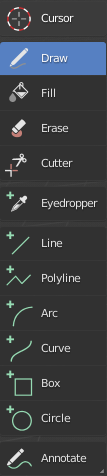
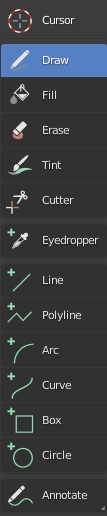
GPencil: Modes section updates

diff --git a/manual/grease_pencil/modes/sculpting/tools.rst b/manual/grease_pencil/modes/sculpting/tools.rst
@@ -8,26 +8,8 @@ For Grease Pencil sculpt modes each brush type is exposed as a tool,
 the brush can be changed in the Tool Settings.
 See :doc:`Brush </grease_pencil/modes/sculpting/tool_settings/brush>` for more information.
 
-Grease Pencil sculpt tools:
-
 .. figure:: /images/grease-pencil_modes_sculpting_tools_brushes.png
    :align: right
-
-   3D View Mode selector: Sculpt Mode.
-
-.. note::
-
-   Some :ref:`Object Mode <object-toolbar-index>` are also present.
-
-:ref:`Select <tool-select-tweak>`
-   Select or moved.
-
-   :ref:`Select Box <tool-select-box>`
-      Select geometry by dragging a box.
-   :ref:`Select Circle <tool-select-circle>`
-      Select geometry by painting on it.
-   :ref:`Select Lasso <tool-select-lasso>`
-      Select geometry by drawing a lasso.
 
 Smooth
    Eliminates irregularities in the area of the drawing
@@ -64,3 +46,13 @@ Pinch/Inflate
 Clone
    Adds copies of the strokes in the clipboard in the center of the brush.
    You have to copy the selected strokes you want into the clipboard with :kbd:`Ctrl-C` before using the tool.
+
+:ref:`Annotate <tool-annotate>`
+   Draw free-hand annotation.
+
+   Annotate Line
+      Draw straight line annotation.
+   Annotate Polygon
+      Draw a polygon annotation.
+   Annotate Eraser
+      Erase previous drawn annotations.

diff --git a/manual/grease_pencil/modes/draw/tools.rst b/manual/grease_pencil/modes/draw/tools.rst
@@ -7,11 +7,8 @@ Drawing Tools
 .. figure:: /images/grease-pencil_modes_draw_tools_toolbar-tools.png
    :align: right
 
-Grease Pencil draw tools:
-
-.. note::
-
-   Some :ref:`Object Mode <object-toolbar-index>` are also present.
+Cursor
+   Change the location of the 3D Cursor.
 
 :ref:`Draw <tool-grease-pencil-draw-draw>`
    Draw free-hand strokes.
@@ -21,6 +18,9 @@ Grease Pencil draw tools:
 
 :ref:`Erase <tool-grease-pencil-draw-erase>`
    Erase strokes.
+
+:ref:`Tint <tool-grease-pencil-draw-tint>`
+   Colorize stroke points.
 
 :ref:`Cutter <tool-grease-pencil-draw-cutter>`
    Cut strokes in between others.
@@ -47,4 +47,11 @@ Grease Pencil draw tools:
    Draw oval shapes.
 
 :ref:`Annotate <tool-annotate>`
-   Add free-hand notes.
+   Draw free-hand annotation.
+
+   Annotate Line
+      Draw straight line annotation.
+   Annotate Polygon
+      Draw a polygon annotation.
+   Annotate Eraser
+      Erase previous drawn annotations.

diff --git a/manual/grease_pencil/modes/edit/tools.rst b/manual/grease_pencil/modes/edit/tools.rst
@@ -4,11 +4,8 @@
 Editing Tools
 *************
 
-Grease Pencil edit tools:
-
-.. note::
-
-   Some :ref:`Object Mode <object-toolbar-index>` are also present.
+.. figure:: /images/grease-pencil_modes_edit_tools.png
+   :align: right
 
 :ref:`Select <tool-select-tweak>`
    Select or moved.
@@ -37,3 +34,16 @@ Shear :kbd:`Shift-Ctrl-Alt-S`
 
 To Sphere :kbd:`Shift-Alt-S`
    Move selected points outward in a spherical shape around the selected strokes' center.
+
+Transform Fill
+   Change the Translation, Rotation and scale of strokes fill.
+
+:ref:`Annotate <tool-annotate>`
+   Draw free-hand annotation.
+
+   Annotate Line
+      Draw straight line annotation.
+   Annotate Polygon
+      Draw a polygon annotation.
+   Annotate Eraser
+      Erase previous drawn annotations.

diff --git a/manual/grease_pencil/materials/introduction.rst b/manual/grease_pencil/materials/introduction.rst
@@ -4,10 +4,13 @@ Introduction
 ************
 
 Materials control the appearance of the Grease Pencil object.
-They define the color and texture of the strokes and filled areas.
+They define the base color and texture of the strokes and filled areas.
 
 There is always only one active material in the list (the selected one).
 When you draw, the new strokes use the active material.
+
+You can overrides the base material color using the tools in :doc:`Vertex Mode </grease_pencil/modes/vertex_paint/introduction>`
+or the Draw and Tint tool in Draw mode.
 
 The material always remains linked to the strokes, this means that any change in a material will change
 the look of already drawn strokes.

diff --git a/manual/grease_pencil/modes/weight_paint/tools.rst b/manual/grease_pencil/modes/weight_paint/tools.rst
@@ -8,7 +8,18 @@ For Grease Pencil Weight Paint modes each brush type is exposed as a tool,
 the brush can be changed in the Tool Settings.
 See :doc:`Brush </grease_pencil/modes/weight_paint/tool_settings/brush>` for more information.
 
-Grease Pencil weight paint tools:
+.. figure:: /images/grease-pencil_modes_weight_paint_tools_brushes.png
+   :align: right
 
 Draw
    Paints a specified weight over the strokes.
+
+:ref:`Annotate <tool-annotate>`
+   Draw free-hand annotation.
+
+   Annotate Line
+      Draw straight line annotation.
+   Annotate Polygon
+      Draw a polygon annotation.
+   Annotate Eraser
+      Erase previous drawn annotations.

diff --git a/manual/grease_pencil/modes/weight_paint/introduction.rst b/manual/grease_pencil/modes/weight_paint/introduction.rst
@@ -9,7 +9,7 @@ See :doc:`Using Vertex Group </sculpt_paint/weight_paint/usage>` for more inform
 
 .. note::
 
-   A vertex in Grease Pencil is called point.
+   A vertex in Grease Pencil is called point. Point and vertex names are equivalent.
 
 Weight Painting is a method to maintain large amounts of weight information in a very intuitive way.
 The selected Grease Pencil object is displayed slightly shaded with a rainbow color spectrum.

diff --git a/manual/sculpt_paint/texture_paint/tool_settings/brush_settings.rst b/manual/sculpt_paint/texture_paint/tool_settings/brush_settings.rst
@@ -92,6 +92,12 @@ New ``+``
 Delete ``-``
    Removes the currently selected color from the palette.
 
+Move (up/down arrow icon)
+   Moves the selected color up/down one position.
+
+Sort
+   Sort Colors by HUE, Saturation, Value, Luminance.
+
 Color List
    Each color that belongs to the palette is presented in a list.
    Clicking on a color will change the brush's primary *Color* to that color.

diff --git a/manual/grease_pencil/structure.rst b/manual/grease_pencil/structure.rst
@@ -19,6 +19,10 @@ Points represent a single point in 3D space.
 Each point stores all the properties that define the final appearance of the strokes
 as its location, thickness, alpha, weight and UV rotation for textures.
 
+.. note::
+
+   Point (Grease Pencil) and Vertex (Meshes) are equivalent names.
+
 
 Edit Lines
 ==========

diff --git a/manual/grease_pencil/index.rst b/manual/grease_pencil/index.rst
@@ -30,4 +30,5 @@ Modes
    modes/draw/index.rst
    modes/sculpting/index.rst
    modes/edit/index.rst
+   modes/vertex_paint/index.rst
    modes/weight_paint/index.rst

diff --git a/manual/grease_pencil/modes/draw/tool_settings/index.rst b/manual/grease_pencil/modes/draw/tool_settings/index.rst
@@ -11,6 +11,7 @@
    draw.rst
    fill.rst
    erase.rst
+   tint.rst
    cutter.rst
    eyedropper.rst
    line.rst
